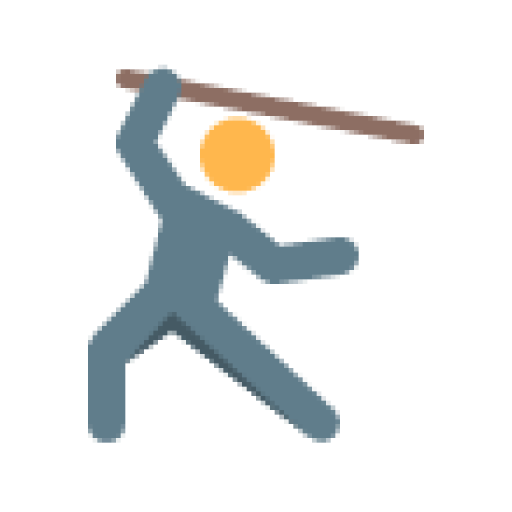
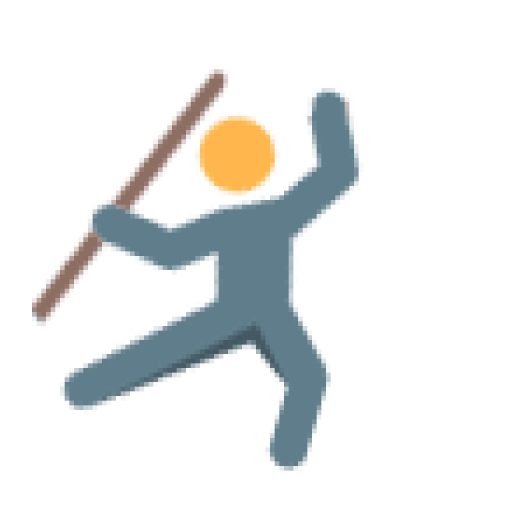
fixes

Changed region(s): [[0.0625, 0.125, 0.8438, 0.9375], [0.5312, 0.2812, 0.5625, 0.3125]]

diff --git a/app/src/main/java/com/mnf/sports/Adapters/EventListAdapter.java b/app/src/main/java/com/mnf/sports/Adapters/EventListAdapter.java
@@ -282,7 +282,7 @@ public void setUpAnimation(final ViewHolder holder){
             case "e28":
                 return R.mipmap.ic_race;
             case "e29":
-                return R.mipmap.ic_race;
+                return R.mipmap.ic_militia;
             case "e30":
                 return R.mipmap.ic_volley;
             case "e31":
